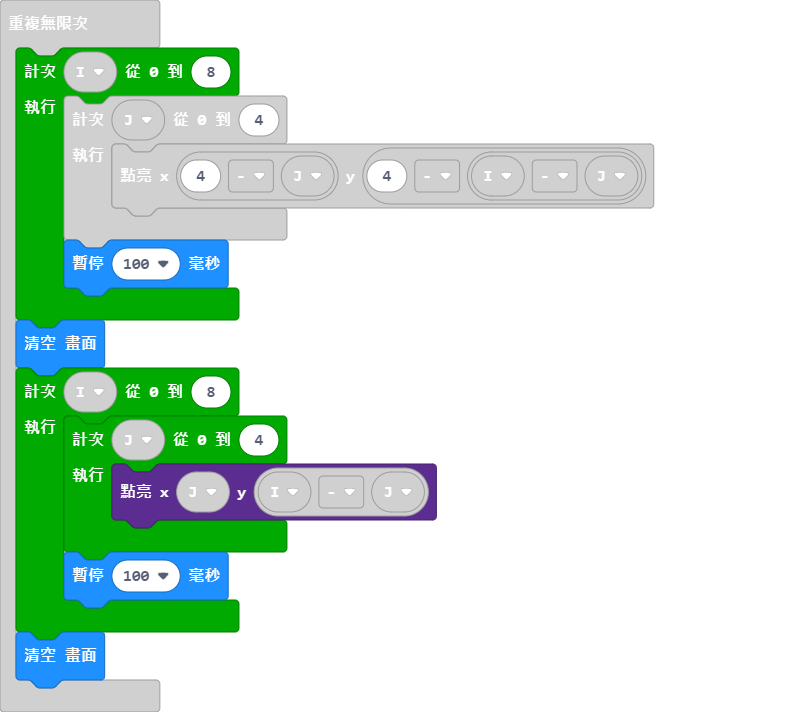
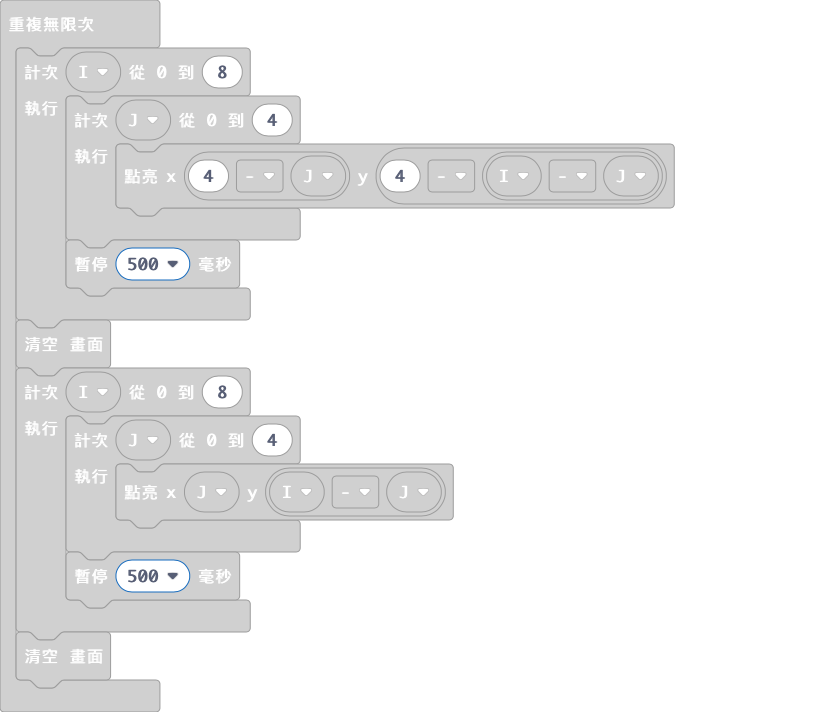
Update main.blocks, main.ts

diff --git a/main.ts b/main.ts
@@ -3,14 +3,14 @@ basic.forever(function () {
         for (let J = 0; J <= 4; J++) {
             led.plot(4 - J, 4 - (I - J))
         }
-        basic.pause(100)
+        basic.pause(500)
     }
     basic.clearScreen()
     for (let I = 0; I <= 8; I++) {
         for (let J = 0; J <= 4; J++) {
             led.plot(J, I - J)
         }
-        basic.pause(100)
+        basic.pause(500)
     }
     basic.clearScreen()
 })
